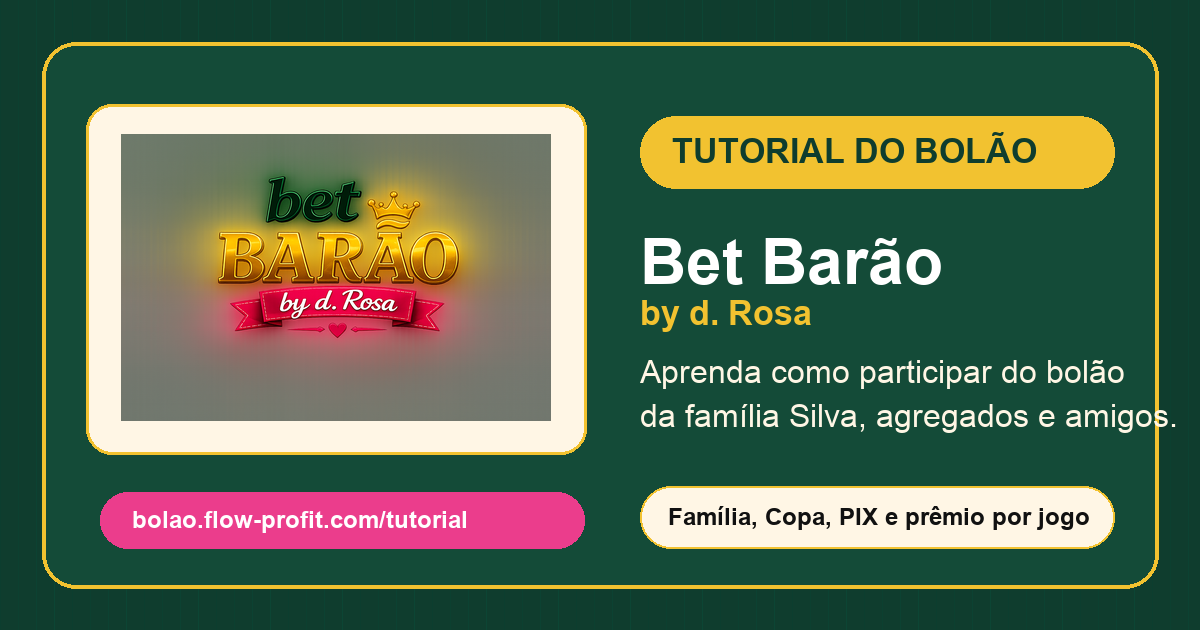
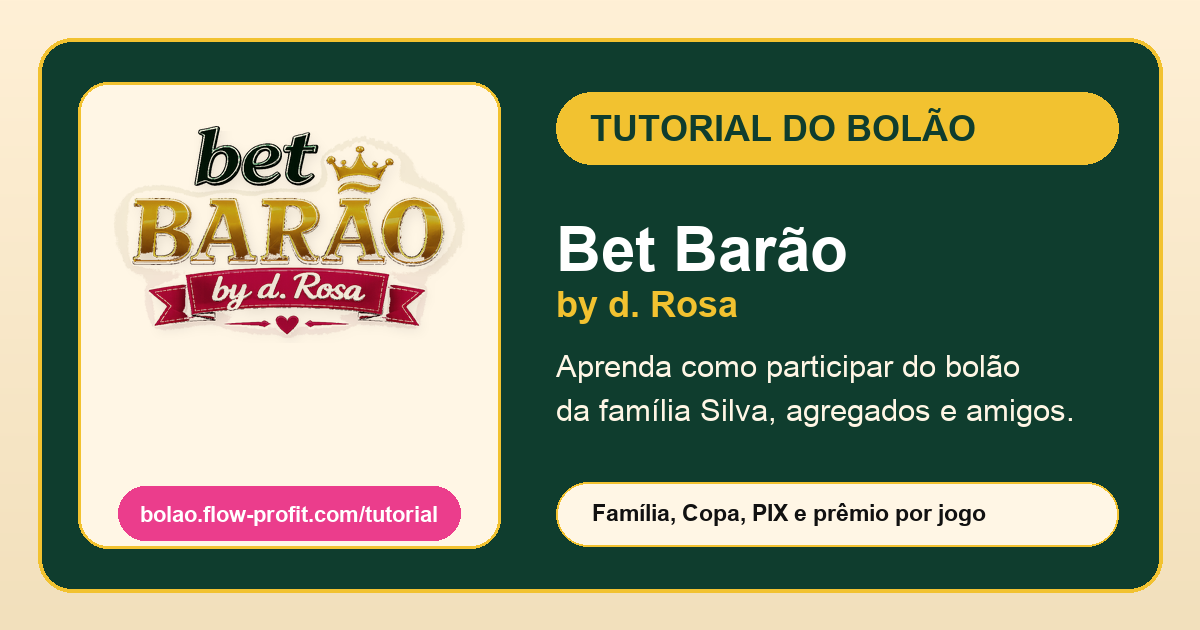
Fix brand asset paths

diff --git a/app/globals.css b/app/globals.css
@@ -4,7 +4,7 @@
 
 :root {
   color-scheme: light;
-  background: #fff6e5;
+  background: #fff0d6;
 }
 
 * {
@@ -18,7 +18,7 @@ html {
 body {
   margin: 0;
   min-height: 100vh;
-  background: #fff6e5;
+  background: #fff0d6;
   color: #111111;
   font-family: Arial, Helvetica, sans-serif;
   letter-spacing: 0;
@@ -61,7 +61,7 @@ button:disabled {
   position: relative;
   isolation: isolate;
   overflow-x: hidden;
-  background: #fff6e5;
+  background: #fff0d6;
 }
 
 .login-brand-bg::before {
@@ -71,7 +71,7 @@ button:disabled {
   z-index: 0;
   background-image:
     linear-gradient(135deg, rgba(255, 246, 229, 0.24), rgba(255, 246, 229, 0.10)),
-    url("/brand/background_login.png");
+    url("/brand/backgrounds/background_login.png");
   background-position: center;
   background-repeat: no-repeat;
   background-size: cover;
@@ -86,7 +86,7 @@ button:disabled {
 .admin-brand-bg {
   background-image:
     linear-gradient(180deg, rgba(255, 246, 229, 0.94), rgba(255, 255, 255, 0.92)),
-    url("/brand/background_admin.png");
+    url("/brand/backgrounds/background_admin.png");
   background-position: center;
   background-size: cover;
 }
@@ -126,7 +126,7 @@ button:disabled {
   .login-brand-bg::before {
     background-image:
       linear-gradient(180deg, rgba(255, 246, 229, 0.42), rgba(255, 246, 229, 0.24)),
-      url("/brand/background_login_mobile.png");
+      url("/brand/backgrounds/background_login_mobile.png");
     background-position: center top;
     background-size: cover;
   }

diff --git a/app/layout.tsx b/app/layout.tsx
@@ -8,11 +8,11 @@ export const metadata: Metadata = {
   description: "O bolão da família Silva, agregados e amigos.",
   icons: {
     icon: [
-      { url: "/brand/favicon.png", type: "image/png" },
-      { url: "/brand/logo_simbolo.png", type: "image/png" }
+      { url: "/brand/icones/favicon.png", type: "image/png" },
+      { url: "/brand/logos/logo_simbolo.png", type: "image/png" }
     ],
-    apple: [{ url: "/brand/logo_simbolo.png", type: "image/png" }],
-    shortcut: "/brand/favicon.png"
+    apple: [{ url: "/brand/logos/logo_simbolo.png", type: "image/png" }],
+    shortcut: "/brand/icones/favicon.png"
   },
   manifest: "/manifest.webmanifest",
   openGraph: {
@@ -22,7 +22,7 @@ export const metadata: Metadata = {
     siteName: "Bet Barão by d. Rosa",
     images: [
       {
-        url: "/brand/logo_principal.png",
+        url: "/brand/logos/logo_principal.png",
         width: 1200,
         height: 630,
         alt: "Bet Barão by d. Rosa, o bolão da família Silva"
@@ -35,7 +35,7 @@ export const metadata: Metadata = {
     card: "summary_large_image",
     title: "Bet Barão by d. Rosa",
     description: "O bolão da família Silva, agregados e amigos.",
-    images: ["/brand/logo_principal.png"]
+    images: ["/brand/logos/logo_principal.png"]
   },
   appleWebApp: {
     title: "Bet Barão",

diff --git a/app/manifest.ts b/app/manifest.ts
@@ -7,16 +7,16 @@ export default function manifest(): MetadataRoute.Manifest {
     description: "O bolão da família Silva, agregados e amigos.",
     start_url: "/",
     display: "standalone",
-    background_color: "#FFF6E5",
+    background_color: "#FFF0D6",
     theme_color: "#0F3D2E",
     icons: [
       {
-        src: "/brand/favicon.png",
+        src: "/brand/icones/favicon.png",
         sizes: "192x192",
         type: "image/png"
       },
       {
-        src: "/brand/logo_simbolo.png",
+        src: "/brand/logos/logo_simbolo.png",
         sizes: "512x512",
         type: "image/png"
       }

diff --git a/components/public-pool.tsx b/components/public-pool.tsx
@@ -40,7 +40,7 @@ const CURRENT_PREDICTION_RULE =
 function BrandIcon({ className = "h-10 w-10" }: { className?: string }) {
   return (
     <Image
-      src="/brand/logo_simbolo.png"
+      src="/brand/logos/logo_simbolo.png"
       alt="Bet Barão"
       width={56}
       height={56}
@@ -697,7 +697,7 @@ export function PublicPool({ initialData }: { initialData: PublicPoolData }) {
         <div className="mx-auto flex max-w-5xl items-center justify-between gap-4 px-4 py-3 lg:px-6">
           <a href="/apostas" className="inline-flex items-center gap-3">
             <Image
-              src="/brand/logo_horizontal.png"
+              src="/brand/logos/logo_horizontal.png"
               alt="Bet Barão by d. Rosa"
               width={260}
               height={96}
@@ -705,7 +705,7 @@ export function PublicPool({ initialData }: { initialData: PublicPoolData }) {
               priority
             />
             <Image
-              src="/brand/logo_simbolo.png"
+              src="/brand/logos/logo_simbolo.png"
               alt="Bet Barão"
               width={48}
               height={48}

diff --git a/app/admin/login/page.tsx b/app/admin/login/page.tsx
@@ -27,7 +27,7 @@ export default function AdminLoginPage({
       <section className="w-full max-w-md rounded-lg border border-canary/70 bg-white/95 p-6 shadow-panel backdrop-blur">
         <div className="text-center">
           <Image
-            src="/brand/logo_horizontal.png"
+            src="/brand/logos/logo_horizontal.png"
             alt="Bet Barão by d. Rosa"
             width={320}
             height={120}

diff --git a/app/favicon.ico/route.ts b/app/favicon.ico/route.ts
@@ -1,3 +1,3 @@
 export function GET(request: Request) {
-  return Response.redirect(new URL("/brand/favicon.png", request.url), 307);
+  return Response.redirect(new URL("/brand/icones/favicon.png", request.url), 307);
 }

diff --git a/app/loading.tsx b/app/loading.tsx
@@ -5,7 +5,7 @@ export default function Loading() {
     <main className="login-brand-bg flex min-h-screen items-center justify-center px-4">
       <div className="rounded-lg border border-canary/70 bg-white/95 px-6 py-5 text-center shadow-panel backdrop-blur">
         <Image
-          src="/brand/logo_texto.png"
+          src="/brand/logos/logo_texto.png"
           alt="Bet Barão by d. Rosa"
           width={180}
           height={64}

diff --git a/app/tutorial/page.tsx b/app/tutorial/page.tsx
@@ -41,7 +41,7 @@ export default function TutorialRoute() {
         <div className="mx-auto flex max-w-7xl flex-col gap-4 px-4 py-4 md:flex-row md:items-center md:justify-between">
           <Link href="/" className="inline-flex items-center gap-3">
             <Image
-              src="/brand/logo_horizontal_dark.png"
+              src="/brand/logos/logo_horizontal_dark.png"
               alt="Bet Barão by d. Rosa"
               width={220}
               height={110}

diff --git a/components/admin-panel.tsx b/components/admin-panel.tsx
@@ -892,7 +892,7 @@ export function AdminPanel({ initialData }: { initialData: AdminPoolData }) {
         <div className="mx-auto flex max-w-7xl flex-col gap-4 px-4 py-5 sm:flex-row sm:items-center sm:justify-between lg:px-6">
           <div className="flex items-center gap-3">
             <Image
-              src="/brand/logo_simbolo.png"
+              src="/brand/logos/logo_simbolo.png"
               alt="Símbolo Bet Barão"
               width={56}
               height={56}

diff --git a/tailwind.config.ts b/tailwind.config.ts
@@ -16,7 +16,7 @@ const config: Config = {
       coal: "#111111",
       field: "#0F3D2E",
       canary: "#F2C230",
-      mist: "#FFF6E5",
+      mist: "#FFF0D6",
       line: "#F2C230",
       rose: "#EB3D8C",
       red: {